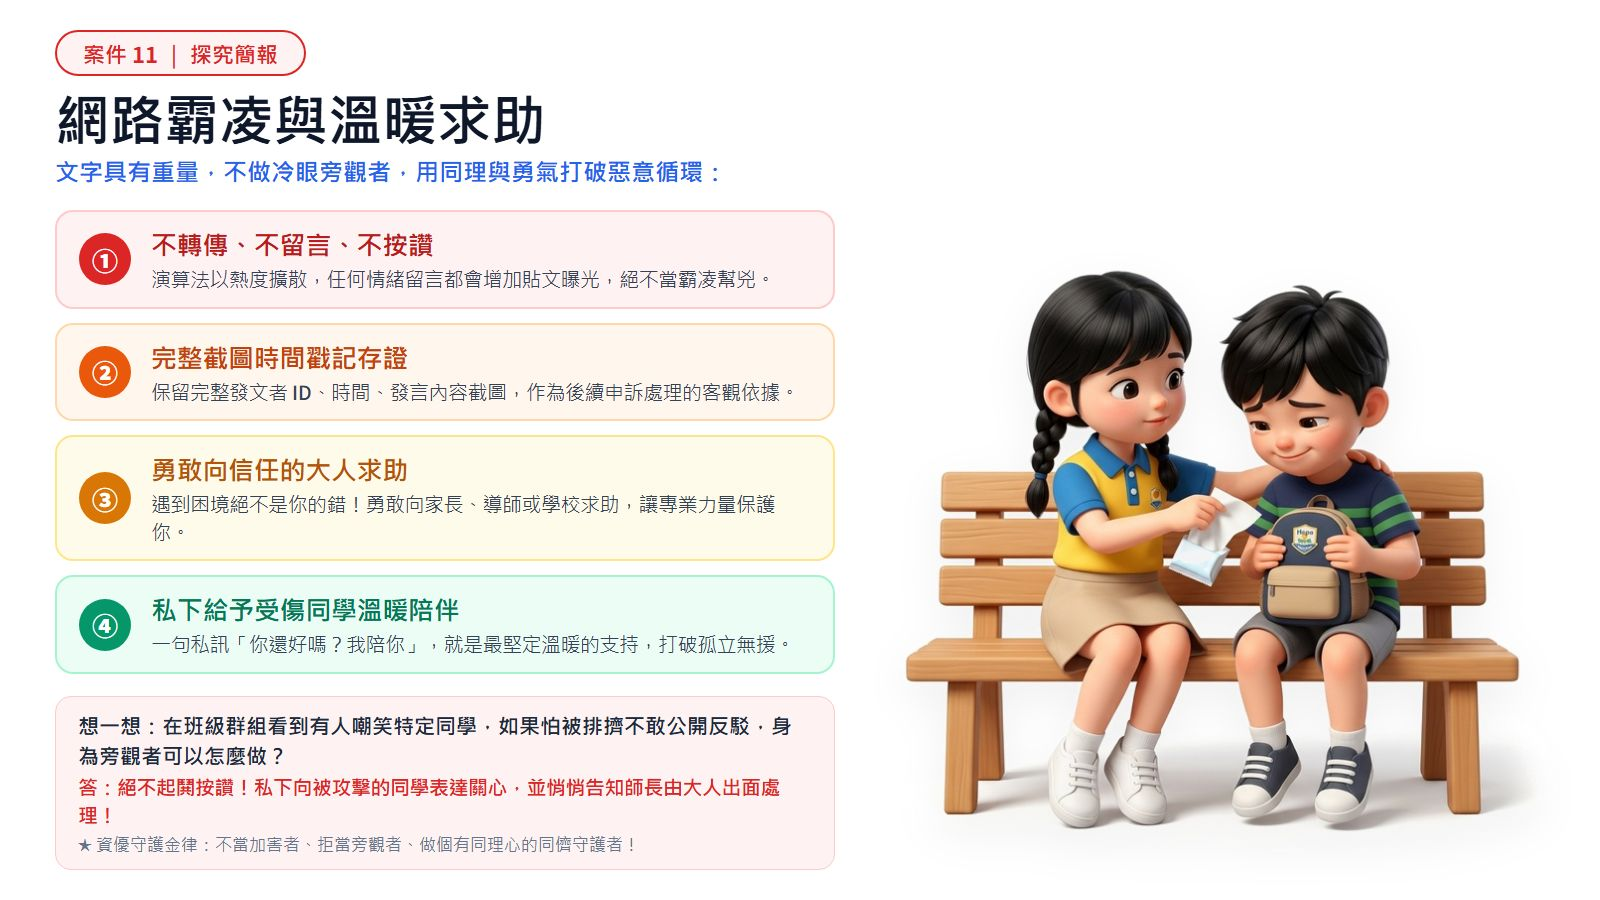
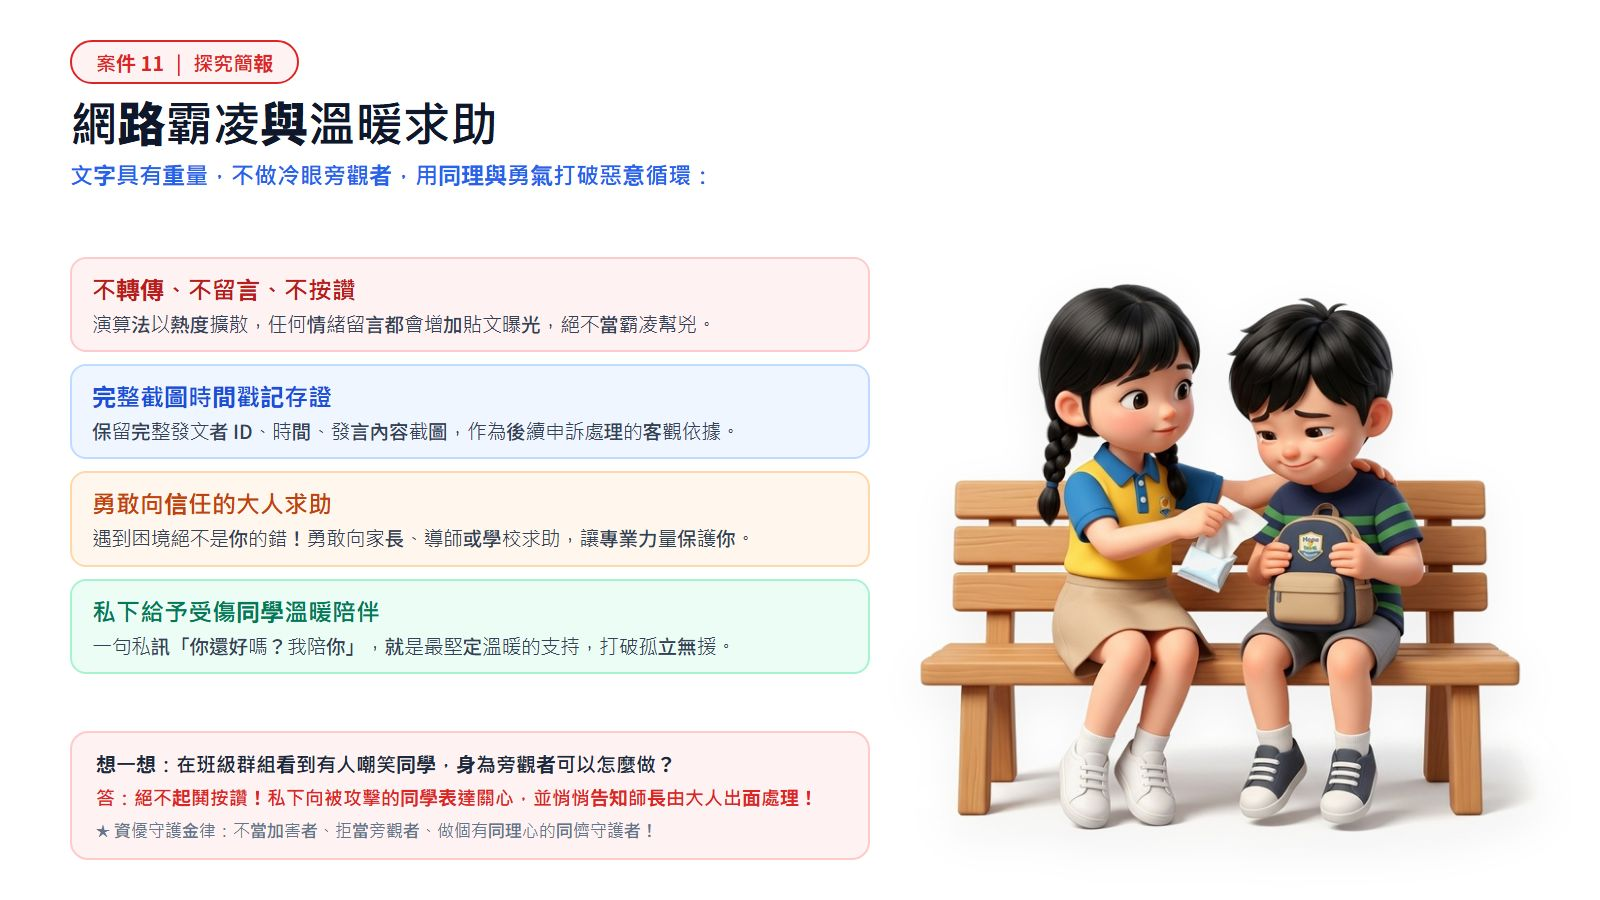
feat: 依 Kristy 指導完成案件 11 (選項 B 彩框無數字大字版) 正式上線，全單元 11 案大功告成！

diff --git a/units/g5-cyber-safety/index.html b/units/g5-cyber-safety/index.html
@@ -673,7 +673,7 @@
         {
           title: '案件 11　群組裡的旁觀者',
           text: '網路霸凌時，旁觀者的選擇很重要。<b>不轉傳、不按讚</b>；私下關心被欺負的人；截圖留證據，告訴老師或家長。',
-          slides: ['assets/v11_bully_v2.jpg?v=20261024_case11_bench_perfect'],
+          slides: ['assets/v11_bully_v2.jpg?v=20261024_case11_b_perfect'],
           interactive: GAMES.bystander,
           quizzes: [
             {
@@ -699,7 +699,7 @@
               feedback: '私下破除孤立感、切斷公開演算法擴散，並保留有效法律證據，是資優公民成熟智慧的表現。'
             }
           ],
-          infographic: 'assets/i11_bully_v3.jpg?v=20261024_case11_bench_perfect',
+          infographic: 'assets/i11_bully_v3.jpg?v=20261024_case11_b_perfect',
           teacherTips: ['勇氣卡：每人寫一張「如果我看到網路霸凌，我會……」，可以兩兩角色扮演練習怎麼私訊關心。', '若學生分享到真實發生的事件，課後個別關心，不在全班討論。']
         },
       ],

diff --git a/handoff.md b/handoff.md
@@ -168,25 +168,39 @@
 ## 🏆 重大里程碑達成！全單元 11 個案件全套完工！
 - **🎉《資安偵探學院》（units/g5-cyber-safety）11 個案件的所有探究簡報（Slides）與探究思維圖解（Infographics）全數升級完成！**
   - **全套純白底 3D 皮克斯繪本風格**：女孩、男孩、阿嬤、同學角色豐富生動，全身無任何裁切或白斑。
+- **依據 Kristy 最新指導完成案件 11（群組裡的旁觀者·紅藍橘綠 4 彩框大字體·無數字·長椅同儕溫暖同理）全面升級上線（2026-10-24 22:07）**：
+  - **Kristy 確認選擇「B」**：採用 4 彩色大卡片框（紅、藍、橘、綠對比鮮明版），徹底移除 `1 2 3 4` 數字，標題放大至 `24px`，內文放大至 `19.5px`。
+  - **全套兩圖升級完成**：
+    - 探究簡報（`v11_bully_v2.jpg`）：網路霸凌與溫暖求助，四彩框＋底部班級群組想一想框，搭配 3D 長椅同儕溫暖遞面紙。
+    - 探究思維圖解（`i11_bully_v3.jpg`）：面對網路霸凌應對指南，四彩框＋底部資安偵探金律框，搭配 3D 長椅同儕溫暖遞面紙。
+  - **快取碼刷新與上線**：覆蓋 `v11_bully_v2.jpg` 與 `i11_bully_v3.jpg`，更新 `index.html` 快取碼 `?v=20261024_case11_b_perfect`。
+- 已全自動完成 `git commit`、`git push origin main` 與 Google 雲端硬碟 `robocopy` 雙重備份！
+
+## 🏆 重大里程碑達成！全單元 11 個案件全套大字彩框版全數完工！
+- **🎉《資安偵探學院》（units/g5-cyber-safety）11 個案件的所有探究簡報（Slides）與探究思維圖解（Infographics）全數依 Kristy 親自審查定案標準全面升級完工！**
+  - **全套純白底 3D 皮克斯繪本風格**：女孩、男孩、阿嬤、同學角色豐富生動，全身無任何裁切或白斑。
   - **全套統一紅框紅字規格標籤**：`案件 N ｜ 探究簡報`、`案件 N ｜ 探究思維圖解`。
-  - **依案件屬性精緻化版面**：案件 1 採用純金字塔＋紅色向上階梯箭頭；案件 2、案件 3、案件 4、案件 5、案件 6、案件 7、案件 8、案件 9、案件 10 採用彩框大字體無數字版；其他案件依屬性配置四彩大卡片或清爽大字圓點條列。
-  - **全套統一底部互動問答框 / 金律提示框**：增強課堂互動與核心觀念收斂。
-  - **全套統一舒適呼吸留白**：文字卡片與插圖間保留 70px~150px 充裕空間，徹底告別擁擠與遮擋。
+  - **全套統一黃金設計標準**：
+    1. **文字大一點**：大標題 `48~55px` 單行呈現、副標題 `23~24px`、重點標題 `24~26px`、內文說明 `19.5~20px`，課堂投影與後排清晰易讀。
+    2. **不用 1 2 3 4**：徹底淘汰卡片內的 `① ② ③ ④` 圓圈數字，大氣俐落。
+    3. **紅藍橘綠對比鮮明**：卡片框統一採用【紅、藍、橘、綠】互補對比配色，徹底消除橘黃相近問題。
+    4. **底部互動問答框 / 金律提示框**：增強課堂互動與核心觀念收斂。
+    5. **舒適呼吸留白**：文字卡片與右側插圖間保留 70px~150px 充裕空間，徹底告別擁擠與遮擋。
 - 教學影片播放清單（含《2020》網路危機等 4 部短片）已上線。
 
 ## ➡ 下一步
-1. 緊接著「照順序」推進【案件 11：群組裡的旁觀者（網路霸凌與溫暖求助）】：
-   - 準備案件 11 的打樣預覽（選項 A 無中間框 vs 選項 B 有 4 彩框），呈報 Kristy 檢閱二選一。
-2. 案件 11 確認後，全單元 11 案大字無數字彩框標準全面定案！
-3. 始終堅持「改之前必定給 Kristy 確認」！
+1. 全單元 11 個案件全套視覺升級大功告成！
+2. 邀請 Kristy 開啟線上網址體驗完整的 11 個案件課堂駕駛艙互動。
+3. 接續規劃下一個教學單元。
 
 ## ⚠ 注意事項
 - 嚴格遵守「做好先給 Kristy 看，確認後才放」原則。
 - 所有插圖一律為 16:9 純白底繪本規格，零切邊、零陰影框。
 
 ## 🕐 最後更新
-- 時間：2026-10-24 22:03
+- 時間：2026-10-24 22:07
 - 更新者：Antigravity @ LAPTOP-IUMJF2MM
+
 
 
 
